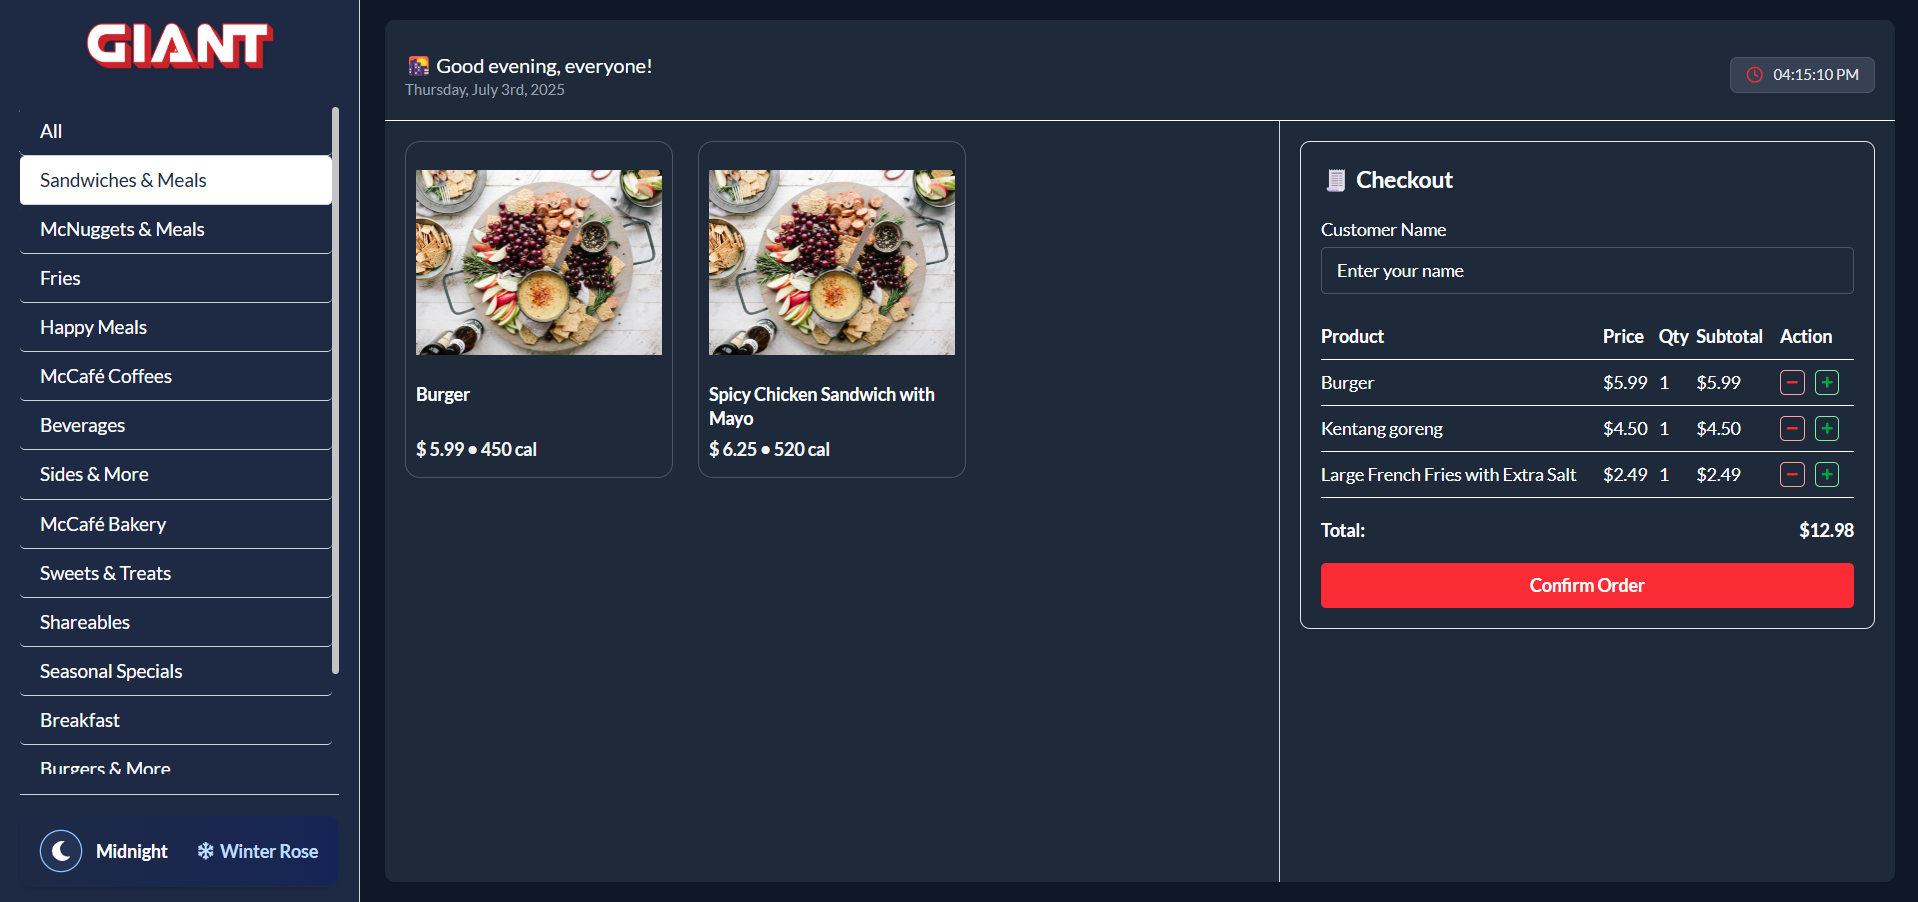
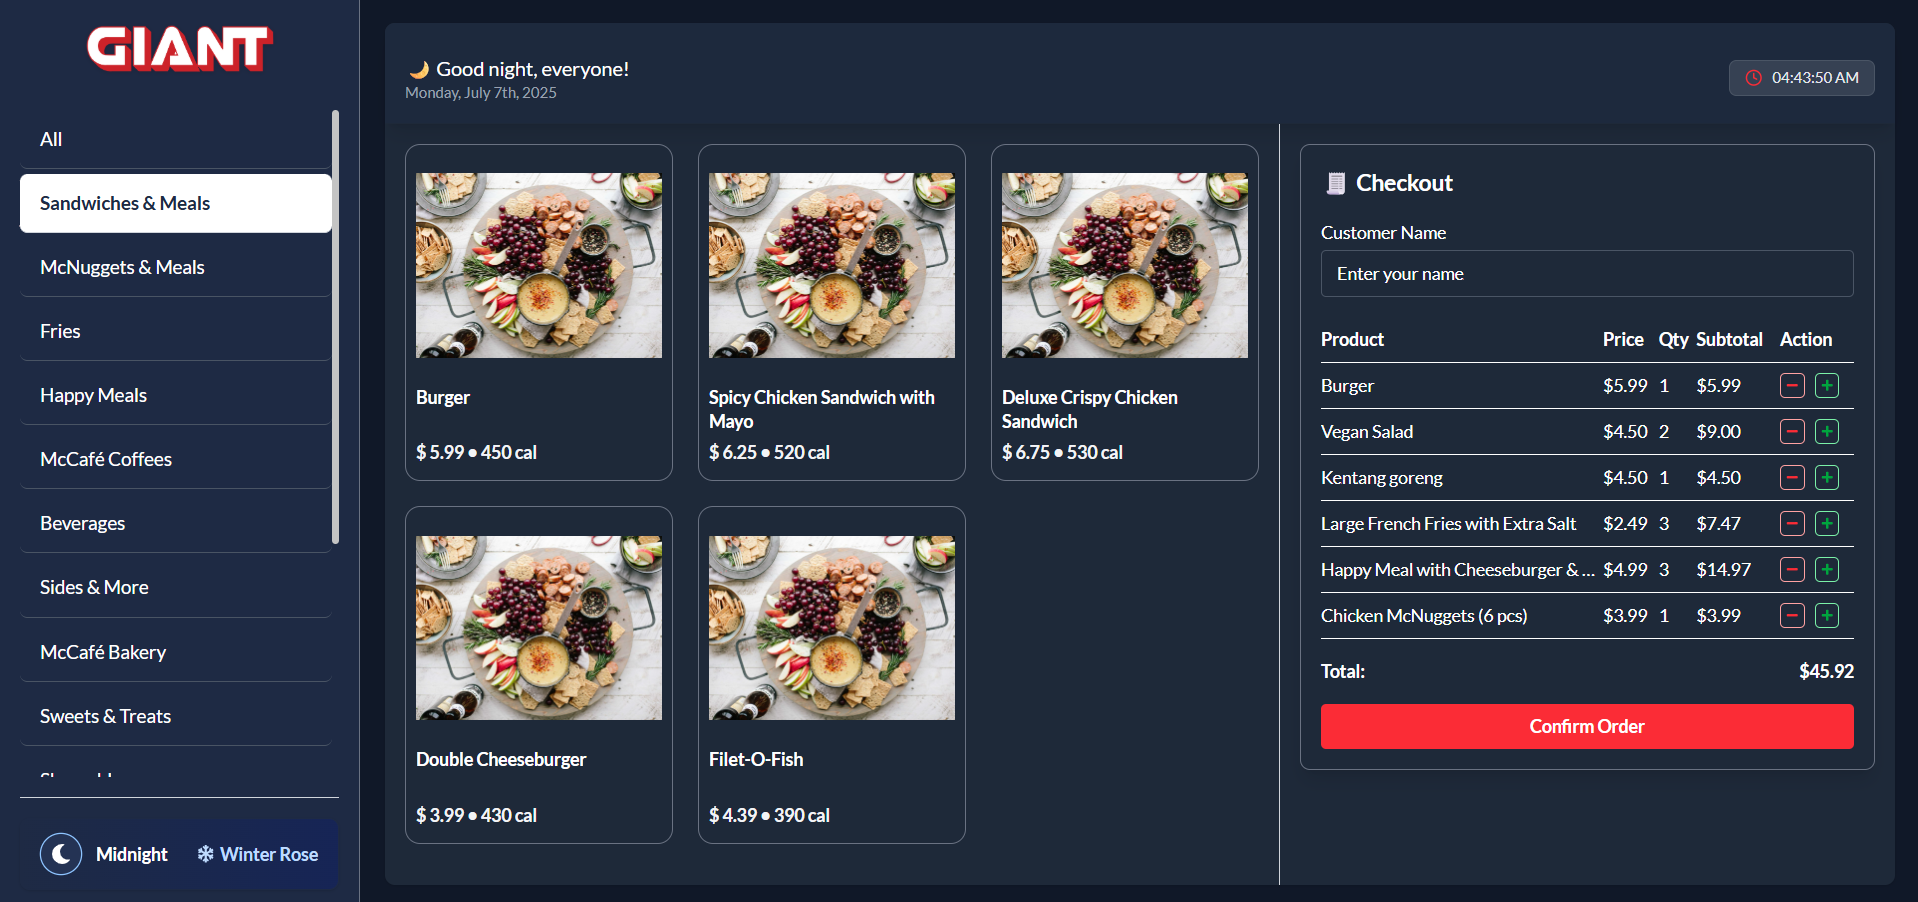
Add: Project screenshot image

diff --git a/src/components/Sidebar/Sidebar.jsx b/src/components/Sidebar/Sidebar.jsx
@@ -55,6 +55,43 @@ export default function Sidebar({
           />
         ))}
       </div>
+      <div className="border-t border-gray-300 mt-4 pt-4">
+        <button
+          onClick={toggleTheme}
+          className={`w-full cursor-pointer transition-all duration-300 border rounded-lg px-4 py-3 shadow flex items-center justify-between ${
+            isDark
+              ? "bg-gradient-to-r from-[#1e2a44] to-blue-950 border-[#1e2a44] hover:from-[#243354] hover:to-blue-900 text-white"
+              : "bg-gradient-to-r from-white to-red-50 border-red-200 hover:from-white hover:to-red-100 text-red-700"
+          }`}
+        >
+          <div className="flex items-center gap-3 ">
+            <div
+              className={`p-2 rounded-full ring-1  ${
+                isDark
+                  ? "bg-[#243354] text-white ring-blue-300"
+                  : "bg-red-100 text-red-600 ring-red-300"
+              }`}
+            >
+              {isDark ? (
+                <FaMoon className="text-md" />
+              ) : (
+                <FaSnowflake className="text-md" />
+              )}
+            </div>
+            <span className="text-sm font-semibold">
+              {isDark ? "Midnight" : "Winter Rose"}
+            </span>
+          </div>
+          <div
+            className={`flex items-center gap-1 text-sm font-semibold ${
+              isDark ? "text-blue-200" : "text-blue-900"
+            }`}
+          >
+            {isDark ? <FaSnowflake /> : <FaMoon />}
+            <span>{isDark ? "Winter Rose" : "Midnight"}</span>
+          </div>
+        </button>
+      </div>
     </div>
   );
 }

diff --git a/README.md b/README.md
@@ -20,6 +20,36 @@ A modern food ordering dashboard with:
 
 ---
 
+## ☀ Order Detail Light Mode
+
+![Light Mode](./public/screenshots/light-order-detail.png)
+
+---
+
+## 🌙 Order Detail Dark Mode
+
+![Dark Mode](./public/screenshots/dark-order-detail.png)
+
+---
+
+## ☀ Purchase Order Light Mode
+
+![Light Mode](./public/screenshots/light-purchase-order.png)
+
+---
+
+## 🌙 Purchase Order Dark Mode
+
+![Dark Mode](./public/screenshots/dark-purchase-order.png)
+
+---
+
+## Purchase Order Print Example
+
+![Dark Mode](./public/screenshots/purchase-order-print.png)
+
+---
+
 ## 🚀 Features
 
 - ✅ Theme toggle (Dark/Light)
